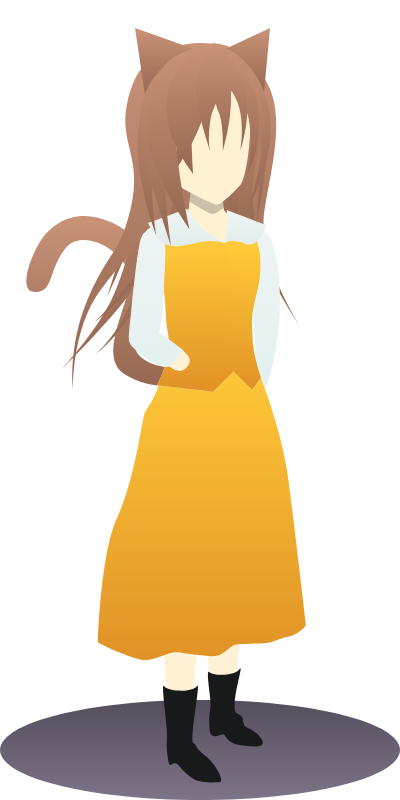
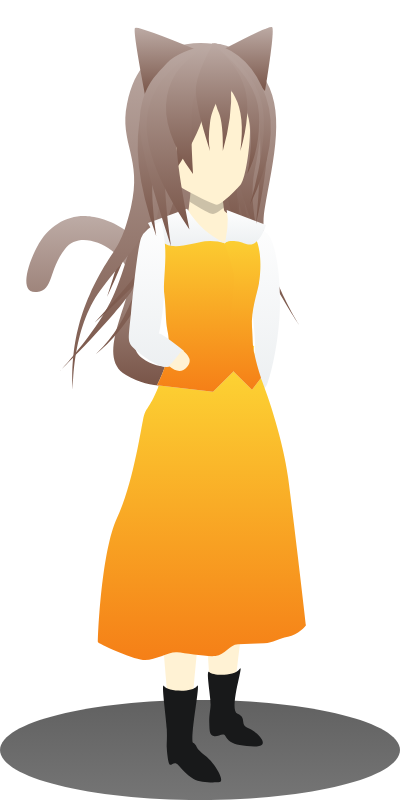
2023-10-26

diff --git a/src/store/scenes/19.ts b/src/store/scenes/19.ts
@@ -4,7 +4,7 @@ const scene = Object.freeze({
   title: '危険なパーティ（上級編）',
   description: {
     conditions: 'キャラクターを敵から保護しつつ、すべてのキャラクターを最小回数で対岸に渡す',
-    transportation: '2人乗りの舟が1艘。ただし舟を漕げるのは魔獣使いのみ。',
+    transportation: '2人乗りの舟が1艘。ただし舟を漕げるのは魔獣使いと騎士のみ。',
   },
   category: 'predators-and-guardians',
   passing: 7,
@@ -32,7 +32,7 @@ const scene = Object.freeze({
     },
   }, {
     id: 2,
-    avatar: '/images/casts/knight-indigo1.png',
+    avatar: '/images/casts/knight-a1.png',
     name: 'A国騎士',
     description: 'B国騎士が目を離すとB国王女を襲う。',
     role: {
@@ -44,7 +44,7 @@ const scene = Object.freeze({
     },
   }, {
     id: 3,
-    avatar: '/images/casts/princess-indigo1.png',
+    avatar: '/images/casts/princess-a1.png',
     name: 'A国王女1',
     ratio: 0.85,
     role: {
@@ -59,7 +59,7 @@ const scene = Object.freeze({
     },
   }, {
     id: 4,
-    avatar: '/images/casts/princess-indigo2.png',
+    avatar: '/images/casts/princess-a2.png',
     name: 'A国王女2',
     ratio: 0.85,
     role: {
@@ -74,7 +74,7 @@ const scene = Object.freeze({
     },
   }, {
     id: 5,
-    avatar: '/images/casts/knight-pink1.png',
+    avatar: '/images/casts/knight-b1.png',
     name: 'B国騎士',
     description: 'A国騎士が目を離すとA国王女を襲う。',
     role: {
@@ -86,7 +86,7 @@ const scene = Object.freeze({
     },
   }, {
     id: 6,
-    avatar: '/images/casts/princess-pink1.png',
+    avatar: '/images/casts/princess-b1.png',
     name: 'B国王女1',
     ratio: 0.85,
     role: {
@@ -101,7 +101,7 @@ const scene = Object.freeze({
     },
   }, {
     id: 7,
-    avatar: '/images/casts/princess-pink2.png',
+    avatar: '/images/casts/princess-b2.png',
     name: 'B国王女2',
     ratio: 0.85,
     role: {

diff --git a/src/store/scenes/13.ts b/src/store/scenes/13.ts
@@ -19,14 +19,14 @@ const scene = Object.freeze({
   }],
   casts: [{
     id: 0,
-    avatar: '/images/casts/knight-indigo1.png',
+    avatar: '/images/casts/knight-a1.png',
     name: 'A国騎士',
     description: '他国の騎士が目を離すと他国の王女を襲う。',
     role: {
     },
   }, {
     id: 1,
-    avatar: '/images/casts/princess-indigo1.png',
+    avatar: '/images/casts/princess-a1.png',
     name: 'A国王女',
     description: '同国の騎士が近くにいないと他国の騎士に襲われる。',
     role: {
@@ -40,14 +40,14 @@ const scene = Object.freeze({
     },
   }, {
     id: 2,
-    avatar: '/images/casts/knight-pink1.png',
+    avatar: '/images/casts/knight-b1.png',
     name: 'B国騎士',
     description: '他国の騎士が目を離すと他国の王女を襲う。',
     role: {
     },
   }, {
     id: 3,
-    avatar: '/images/casts/princess-pink1.png',
+    avatar: '/images/casts/princess-b1.png',
     name: 'B国王女',
     description: '同国の騎士が近くにいないと他国の騎士に襲われる。',
     role: {
@@ -61,14 +61,14 @@ const scene = Object.freeze({
     },
   }, {
     id: 4,
-    avatar: '/images/casts/knight-teal1.png',
+    avatar: '/images/casts/knight-c1.png',
     name: 'C国騎士',
     description: '他国の騎士が目を離すと他国の王女を襲う。',
     role: {
     },
   }, {
     id: 5,
-    avatar: '/images/casts/princess-teal1.png',
+    avatar: '/images/casts/princess-c1.png',
     name: 'C国王女',
     description: '同国の騎士が近くにいないと他国の騎士に襲われる。',
     role: {

diff --git a/src/store/scenes/08.ts b/src/store/scenes/08.ts
@@ -21,14 +21,14 @@ const scene = Object.freeze({
   }],
   casts: [{
     id: 0,
-    avatar: '/images/casts/knight-indigo1.png',
+    avatar: '/images/casts/knight-a1.png',
     name: 'A国騎士',
     description: '他国の騎士が目を離すと他国の王女を襲う。',
     role: {
     },
   }, {
     id: 1,
-    avatar: '/images/casts/princess-indigo1.png',
+    avatar: '/images/casts/princess-a1.png',
     name: 'A国王女',
     description: '同国の騎士が近くにいないと他国の騎士に襲われる。',
     role: {
@@ -39,14 +39,14 @@ const scene = Object.freeze({
     },
   }, {
     id: 2,
-    avatar: '/images/casts/knight-pink1.png',
+    avatar: '/images/casts/knight-b1.png',
     name: 'B国騎士',
     description: '他国の騎士が目を離すと他国の王女を襲う。',
     role: {
     },
   }, {
     id: 3,
-    avatar: '/images/casts/princess-pink1.png',
+    avatar: '/images/casts/princess-b1.png',
     name: 'B国王女',
     description: '同国の騎士が近くにいないと他国の騎士に襲われる。',
     role: {

diff --git a/src/components/objects/PuzzleCast.vue b/src/components/objects/PuzzleCast.vue
@@ -64,8 +64,8 @@ const aspectRatio = computed(() => width.value / height.value)
     :model-value="emotion.model"
     :content="emotion.content"
     :color="emotion.color"
-    :offset-x="scene.castWidth * 0.15"
-    :offset-y="scene.castWidth * 0.15"
+    :offset-x="scene.castWidth * 0.1 * (3 - (state.ratio || 2))"
+    :offset-y="scene.castWidth * 0.1 * (3 - (state.ratio || 2))"
   >
     <v-card
       flat
@@ -80,17 +80,7 @@ const aspectRatio = computed(() => width.value / height.value)
         :style="{ transform: transformImage }"
         style="transform-origin: bottom center;"
       >
-        <div class="d-flex justify-center align-end fill-height">
-          <v-chip
-            v-if="settings.state.nameplate"
-            label
-            variant="tonal"
-            color="white"
-            size="small"
-          >
-            {{ state.name }}
-          </v-chip>
-        </div>
+        <div class="d-flex justify-center align-end fill-height"></div>
       </v-img>
       <v-menu
         activator="parent"

diff --git a/src/store/scenes/14.ts b/src/store/scenes/14.ts
@@ -32,7 +32,7 @@ const scene = Object.freeze({
     },
   }, {
     id: 2,
-    avatar: '/images/casts/knight-indigo1.png',
+    avatar: '/images/casts/knight-a1.png',
     name: 'A国騎士',
     description: 'B国騎士が目を離すとB国王女を襲う。',
     role: {
@@ -44,7 +44,7 @@ const scene = Object.freeze({
     },
   }, {
     id: 3,
-    avatar: '/images/casts/princess-indigo1.png',
+    avatar: '/images/casts/princess-a1.png',
     name: 'A国王女',
     ratio: 0.85,
     role: {
@@ -59,7 +59,7 @@ const scene = Object.freeze({
     },
   }, {
     id: 4,
-    avatar: '/images/casts/knight-pink1.png',
+    avatar: '/images/casts/knight-b1.png',
     name: 'B国騎士',
     description: 'A国騎士が目を離すとA国王女を襲う。',
     role: {
@@ -71,7 +71,7 @@ const scene = Object.freeze({
     },
   }, {
     id: 5,
-    avatar: '/images/casts/princess-pink1.png',
+    avatar: '/images/casts/princess-b1.png',
     name: 'B国王女',
     ratio: 0.85,
     role: {

diff --git a/src/store/scenes/05.ts b/src/store/scenes/05.ts
@@ -8,8 +8,8 @@ const scene = Object.freeze({
   },
   tips: [
     '夜のステージは、移動時にたいまつが必要です。また、たいまつが燃え尽きる制限時間も決まっています。',
-    '橋を渡るのに必要な所要時間はキャラクター毎に異なります。',
-    '2人以上で移動する時は、遅いほうに合わせて同時に移動します。',
+    'キャラクターを上方向にスワイプすると、たいまつの近くにセットされます。',
+    '橋を渡るのに必要な所要時間はキャラクター毎に異なります。2人以上で移動する時は、遅いほうに合わせて同時に移動します。',
   ],
   category: 'time-limited',
   passing: 2,

diff --git a/src/store/scenes/03.ts b/src/store/scenes/03.ts
@@ -20,14 +20,14 @@ const scene = Object.freeze({
   }],
   casts: [{
     id: 0,
-    avatar: '/images/casts/knight-indigo1.png',
+    avatar: '/images/casts/knight-a1.png',
     name: '騎士',
     role: {
       canRow: true,
     },
   }, {
     id: 1,
-    avatar: '/images/casts/princess-indigo1.png',
+    avatar: '/images/casts/princess-a1.png',
     name: '王女A',
     ratio: 0.85,
     role: {
@@ -35,7 +35,7 @@ const scene = Object.freeze({
     },
   }, {
     id: 2,
-    avatar: '/images/casts/princess-indigo2.png',
+    avatar: '/images/casts/princess-a2.png',
     name: '王女B',
     ratio: 0.85,
     role: {

diff --git a/src/store/scenes/20.ts b/src/store/scenes/20.ts
@@ -30,21 +30,21 @@ const scene = Object.freeze({
     },
   }, {
     id: 2,
-    avatar: '/images/casts/black-mage1.png',
-    name: '魔法使い',
+    avatar: '/images/casts/priest1.png',
+    name: '司祭',
     role: {
       duration: 6, 
     },
   }, {
     id: 3,
-    avatar: '/images/casts/white-mage1.png',
-    name: '司祭',
+    avatar: '/images/casts/mage1.png',
+    name: '魔法使い',
     role: {
       duration: 8, 
     },
   }, {
     id: 4,
-    avatar: '/images/casts/princess-indigo1.png',
+    avatar: '/images/casts/princess-a1.png',
     name: '王女',
     role: {
       duration: 12, 

diff --git a/src/components/navigation/SceneController.vue b/src/components/navigation/SceneController.vue
@@ -33,18 +33,5 @@ const scene = useSceneStore()
         </v-list-item>
       </v-list>
     </v-card-item>
-    <v-divider></v-divider>
-    <v-card-item>
-      <v-list>
-        <v-list-item>
-          <v-switch
-            v-model="settings.state.nameplate"
-            color="primary"
-            label="キャラクターの名前を表示する"
-          >
-          </v-switch>
-        </v-list-item>
-      </v-list>
-    </v-card-item>
   </v-card>
 </template>

diff --git a/src/store/scenes/15.ts b/src/store/scenes/15.ts
@@ -33,15 +33,15 @@ const scene = Object.freeze({
     },
   }, {
     id: 2,
-    avatar: '/images/casts/black-mage1.png',
-    name: '魔法使い',
+    avatar: '/images/casts/priest1.png',
+    name: '司祭',
     role: {
       duration: 5, 
     },
   }, {
     id: 3,
-    avatar: '/images/casts/white-mage1.png',
-    name: '司祭',
+    avatar: '/images/casts/mage1.png',
+    name: '魔法使い',
     role: {
       duration: 8, 
     },

diff --git a/src/store/scenes/04.ts b/src/store/scenes/04.ts
@@ -20,14 +20,14 @@ const scene = Object.freeze({
   }],
   casts: [{
     id: 0,
-    avatar: '/images/casts/knight-pink1.png',
+    avatar: '/images/casts/knight-b1.png',
     name: '騎士A',
     role: {
       weight: 2,
     },
   }, {
     id: 1,
-    avatar: '/images/casts/knight-pink2.png',
+    avatar: '/images/casts/knight-b2.png',
     name: '騎士B',
     role: {
       weight: 2,

diff --git a/src/store/scenes/11.ts b/src/store/scenes/11.ts
@@ -26,7 +26,7 @@ const scene = Object.freeze({
     },
   }, {
     id: 1,
-    avatar: '/images/casts/knight-indigo1.png',
+    avatar: '/images/casts/knight-a1.png',
     name: '騎士',
     description: '魔獣使いが目を離すと魔獣を討伐しようとする。',
     ratio: 0.85,
